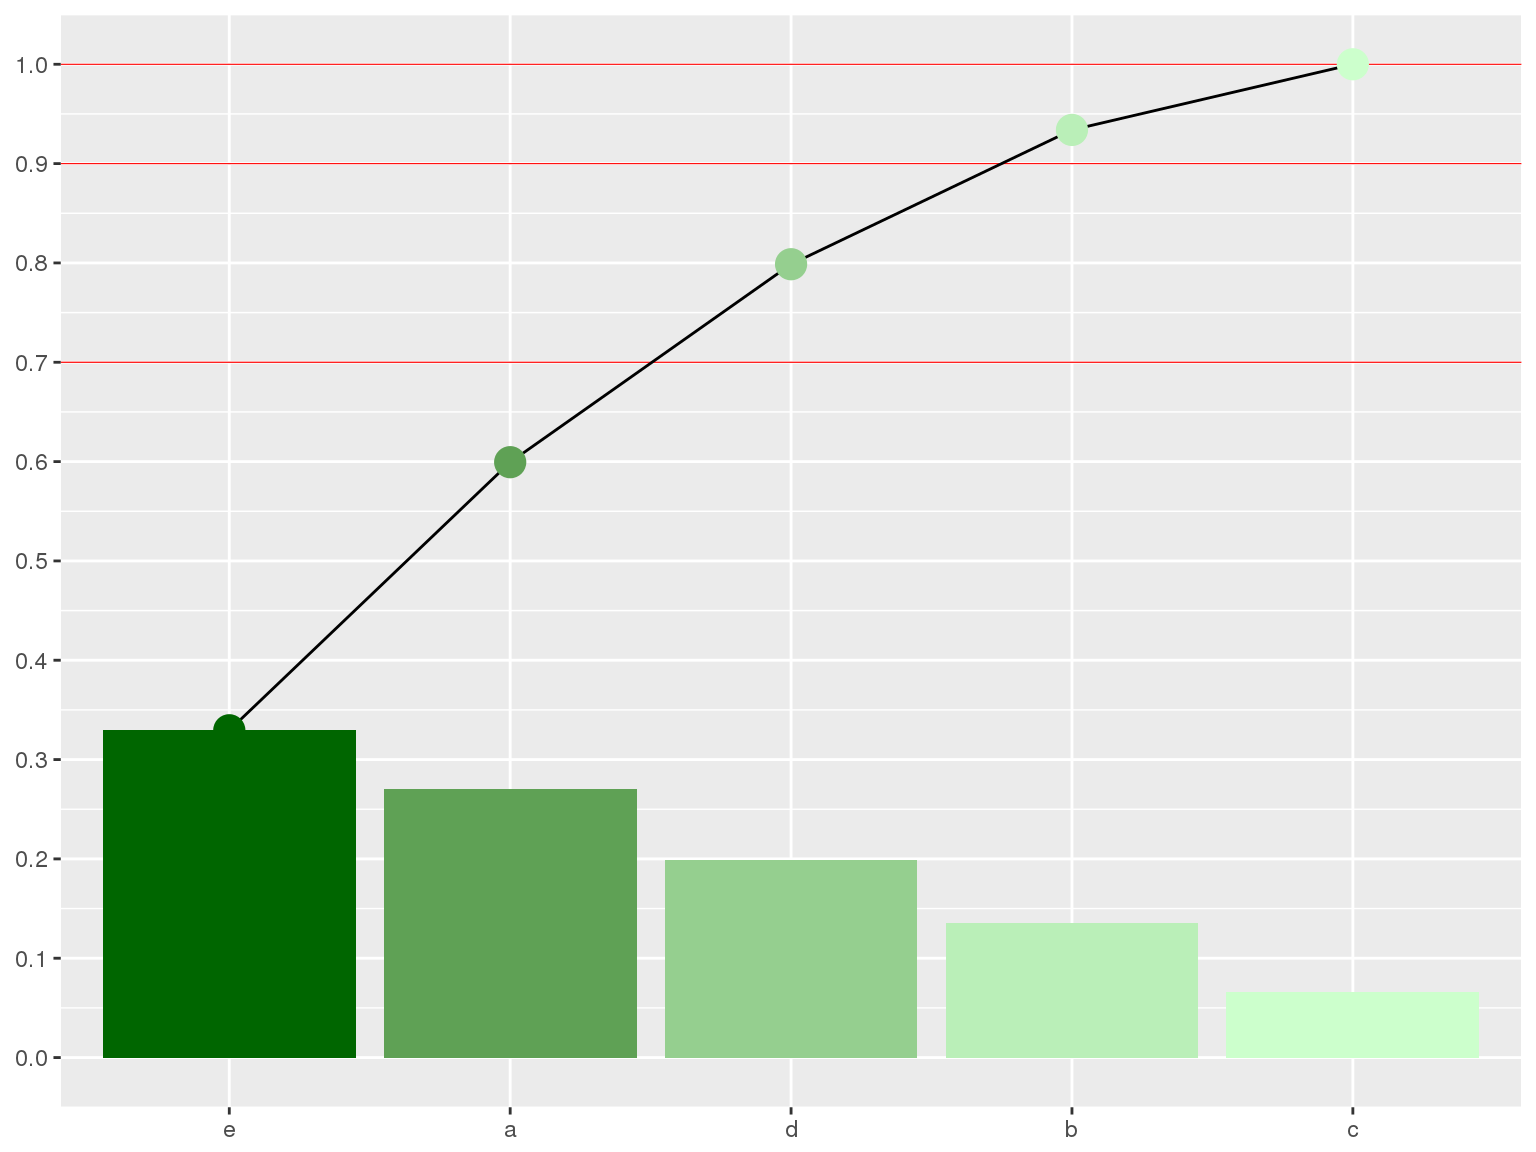
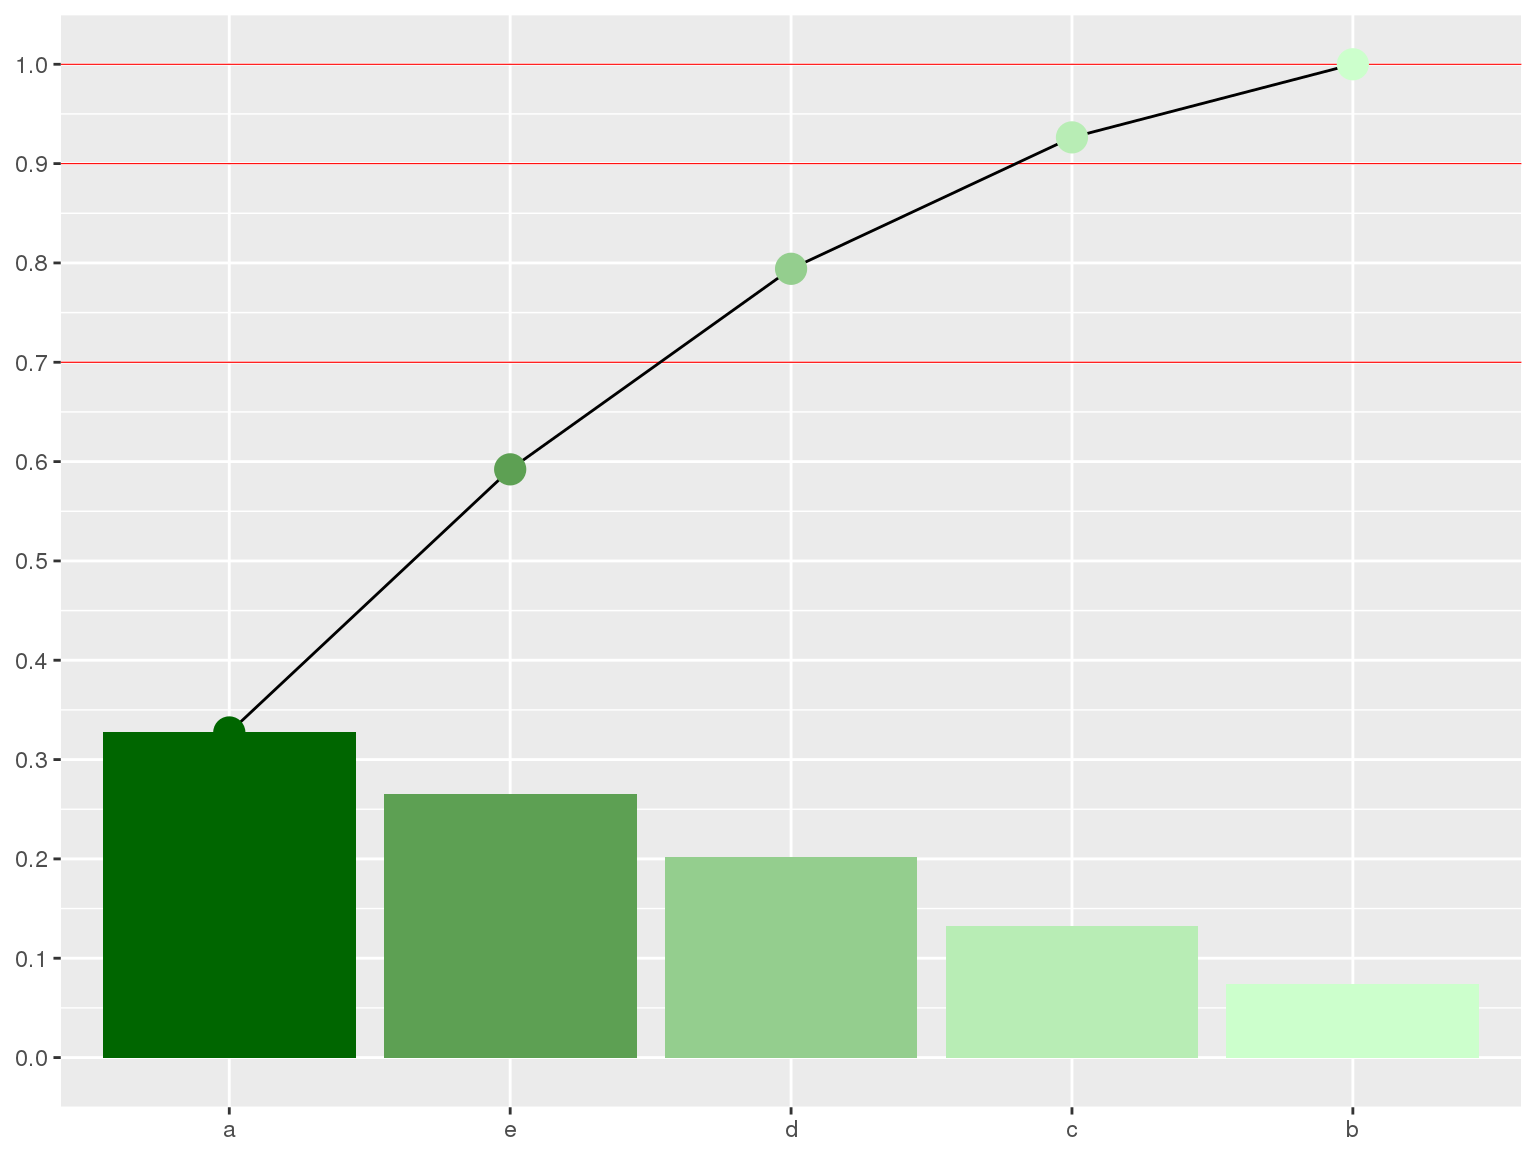
upload plot, but legend of color is uncomplete.

diff --git a/newbie/newbie_workshop.html b/newbie/newbie_workshop.html
@@ -1120,7 +1120,7 @@ res_pareto &lt;-<span class="st"> </span>res_pareto <span class="op">/</span><sp
 </ul></li>
 </ul>
 <div class="sourceCode"><pre class="sourceCode r"><code class="sourceCode r"><span class="kw">sample</span>(<span class="dv">1</span><span class="op">:</span><span class="dv">100</span>, <span class="dt">size =</span> <span class="dv">2</span>)
-<span class="co">#&gt; [1] 23 44</span></code></pre></div>
+<span class="co">#&gt; [1]  1 84</span></code></pre></div>
 </section><section class="slide level2">
 <h2>8.3.2.その他</h2>
 <table>
@@ -1180,12 +1180,12 @@ replace_abcde &lt;-<span class="st"> </span><span class="cf">function</span>(vec
 result &lt;-<span class="st"> </span><span class="kw">pareto_func</span>(vec1)
 result
 <span class="co">#&gt; $count</span>
-<span class="co">#&gt;    e    a    d    b    c </span>
-<span class="co">#&gt; 3295 2699 1993 1352  661 </span>
+<span class="co">#&gt;    a    e    d    c    b </span>
+<span class="co">#&gt; 3273 2649 2019 1323  736 </span>
 <span class="co">#&gt; </span>
 <span class="co">#&gt; $density</span>
-<span class="co">#&gt;      e      a      d      b      c </span>
-<span class="co">#&gt; 0.3295 0.5994 0.7987 0.9339 1.0000</span></code></pre></div>
+<span class="co">#&gt;      a      e      d      c      b </span>
+<span class="co">#&gt; 0.3273 0.5922 0.7941 0.9264 1.0000</span></code></pre></div>
 </section><section class="slide level2">
 
 <ul>
@@ -1532,27 +1532,26 @@ ToothGrowth2_bayes_lm
 
 <div class="sourceCode"><pre class="sourceCode r"><code class="sourceCode r"><span class="co"># Tooth_length = 3.312 + 11.703 * Dose</span>
 <span class="co"># Tooth_length = 11.571 + 7.796 * Dose</span>
-Dose_range &lt;-<span class="st"> </span><span class="kw">data.frame</span>(<span class="dt">Dose =</span> <span class="kw">c</span>(<span class="fl">0.5</span>, <span class="dv">2</span>), <span class="dt">Tooth_length =</span> <span class="kw">c</span>(<span class="dv">4</span>, <span class="dv">34</span>))
 ToothGrowth2 <span class="op">%&gt;%</span><span class="st"> </span>
 <span class="st">  </span><span class="kw">group_by</span>(Supplement) <span class="op">%&gt;%</span><span class="st"> </span>
 <span class="st">  </span><span class="kw">ggplot</span>(<span class="kw">aes</span>(Dose, Tooth_length, <span class="dt">color =</span> Supplement)) <span class="op">+</span>
 <span class="st">  </span><span class="kw">geom_point</span>() <span class="op">+</span>
 <span class="st">  </span><span class="kw">geom_smooth</span>(<span class="dt">method =</span> <span class="st">&quot;lm&quot;</span>, <span class="dt">se =</span> <span class="ot">FALSE</span>, <span class="dt">size =</span> <span class="dv">2</span>) <span class="op">+</span>
 <span class="st">  </span><span class="kw">stat_function</span>(
-    <span class="dt">data =</span> Dose_range,
-    <span class="dt">mapping =</span> <span class="kw">aes</span>(Dose),
     <span class="dt">fun =</span> <span class="cf">function</span>(Dose) <span class="fl">3.312</span> <span class="op">+</span><span class="st"> </span><span class="fl">11.703</span> <span class="op">*</span><span class="st"> </span>Dose,
     <span class="dt">geom =</span> <span class="st">&quot;line&quot;</span>,
     <span class="dt">color =</span> <span class="st">&quot;#00ffc4&quot;</span>,
-    <span class="dt">size =</span> <span class="fl">0.5</span>
+    <span class="dt">size =</span> <span class="fl">0.6</span>,
+    <span class="dt">xlim =</span> <span class="kw">c</span>(<span class="fl">0.5</span>, <span class="fl">2.0</span>),
+    <span class="dt">show.legend =</span> <span class="ot">TRUE</span>
   ) <span class="op">+</span>
 <span class="st">  </span><span class="kw">stat_function</span>(
-    <span class="dt">data =</span> Dose_range,
-    <span class="dt">mapping =</span> <span class="kw">aes</span>(Dose),
     <span class="dt">fun =</span> <span class="cf">function</span>(Dose) <span class="fl">11.571</span> <span class="op">+</span><span class="st"> </span><span class="fl">7.796</span> <span class="op">*</span><span class="st"> </span>Dose,
     <span class="dt">geom =</span> <span class="st">&quot;line&quot;</span>,
     <span class="dt">color =</span> <span class="st">&quot;#ffe4f1&quot;</span>,
-    <span class="dt">size =</span> <span class="fl">0.5</span>
+    <span class="dt">size =</span> <span class="fl">0.5</span>,
+    <span class="dt">xlim =</span> <span class="kw">c</span>(<span class="fl">0.5</span>, <span class="fl">2.0</span>),
+    <span class="dt">show.legend =</span> <span class="ot">TRUE</span>
   )</code></pre></div>
 </section><section id="mcmcregress" class="slide level2">
 <h2>10.2.3.MCMCregress</h2>
